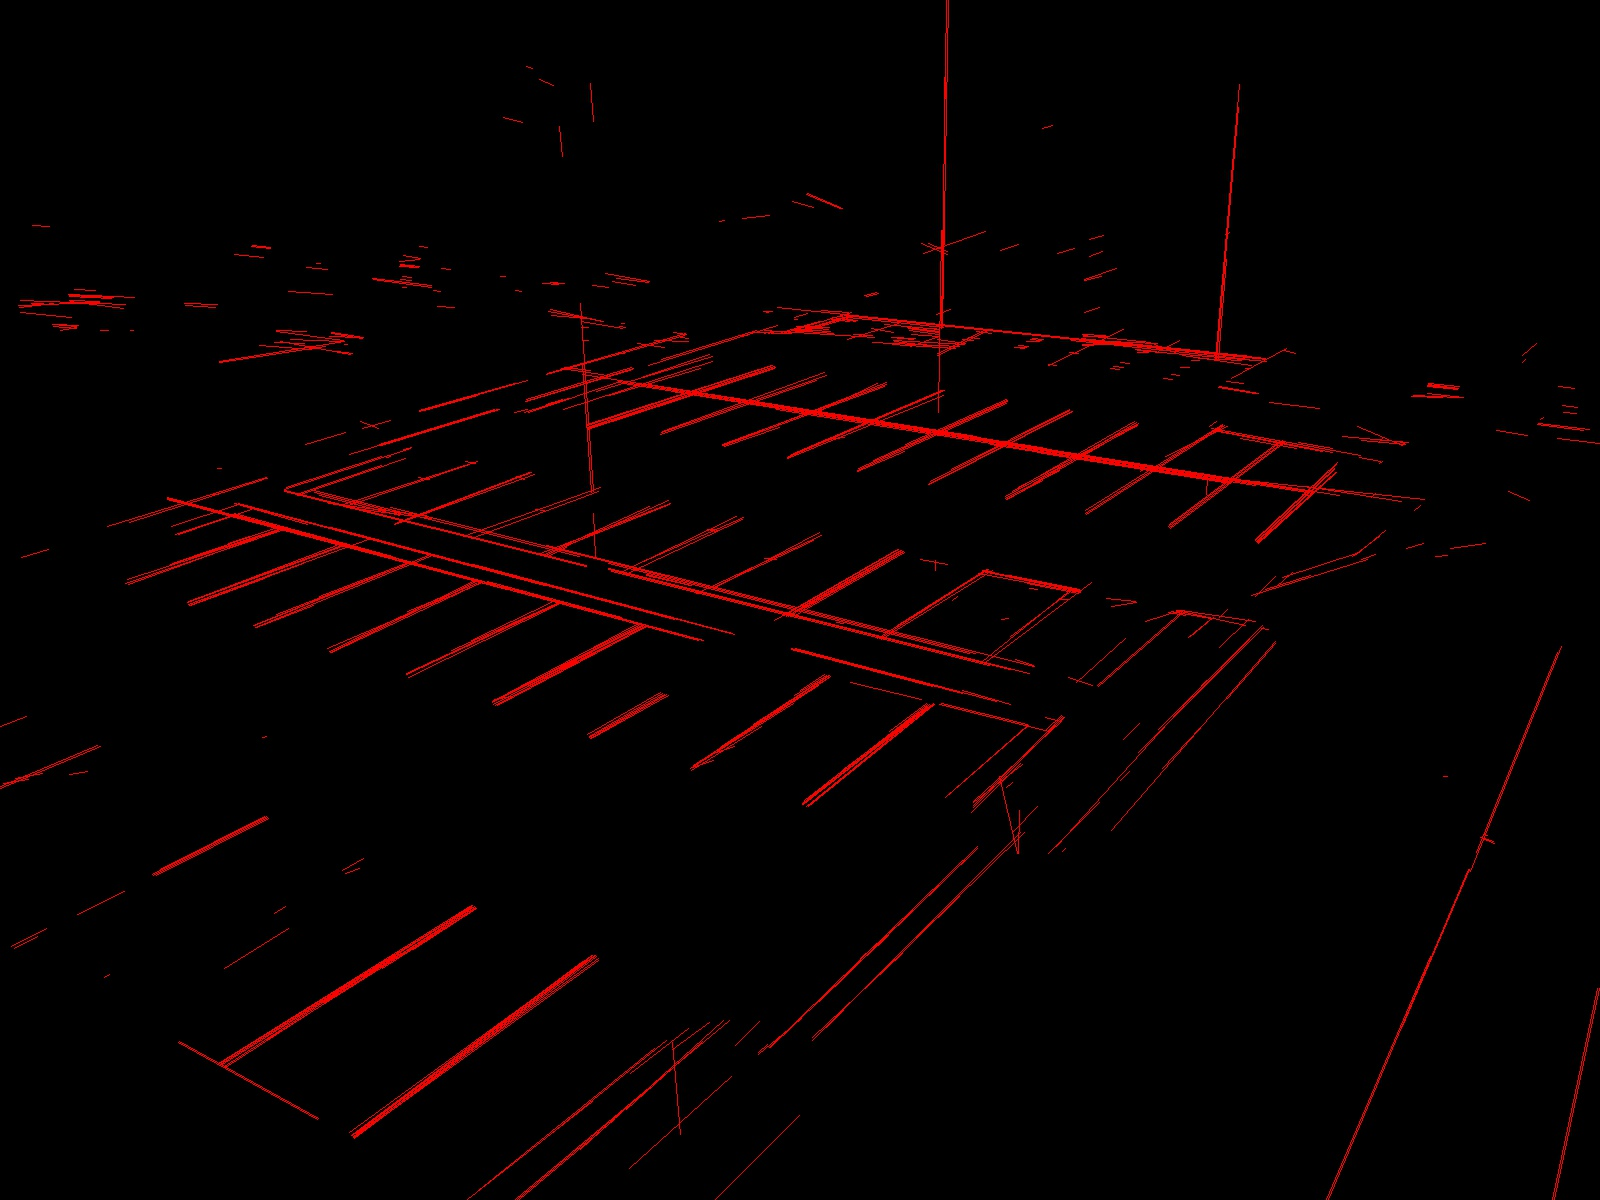
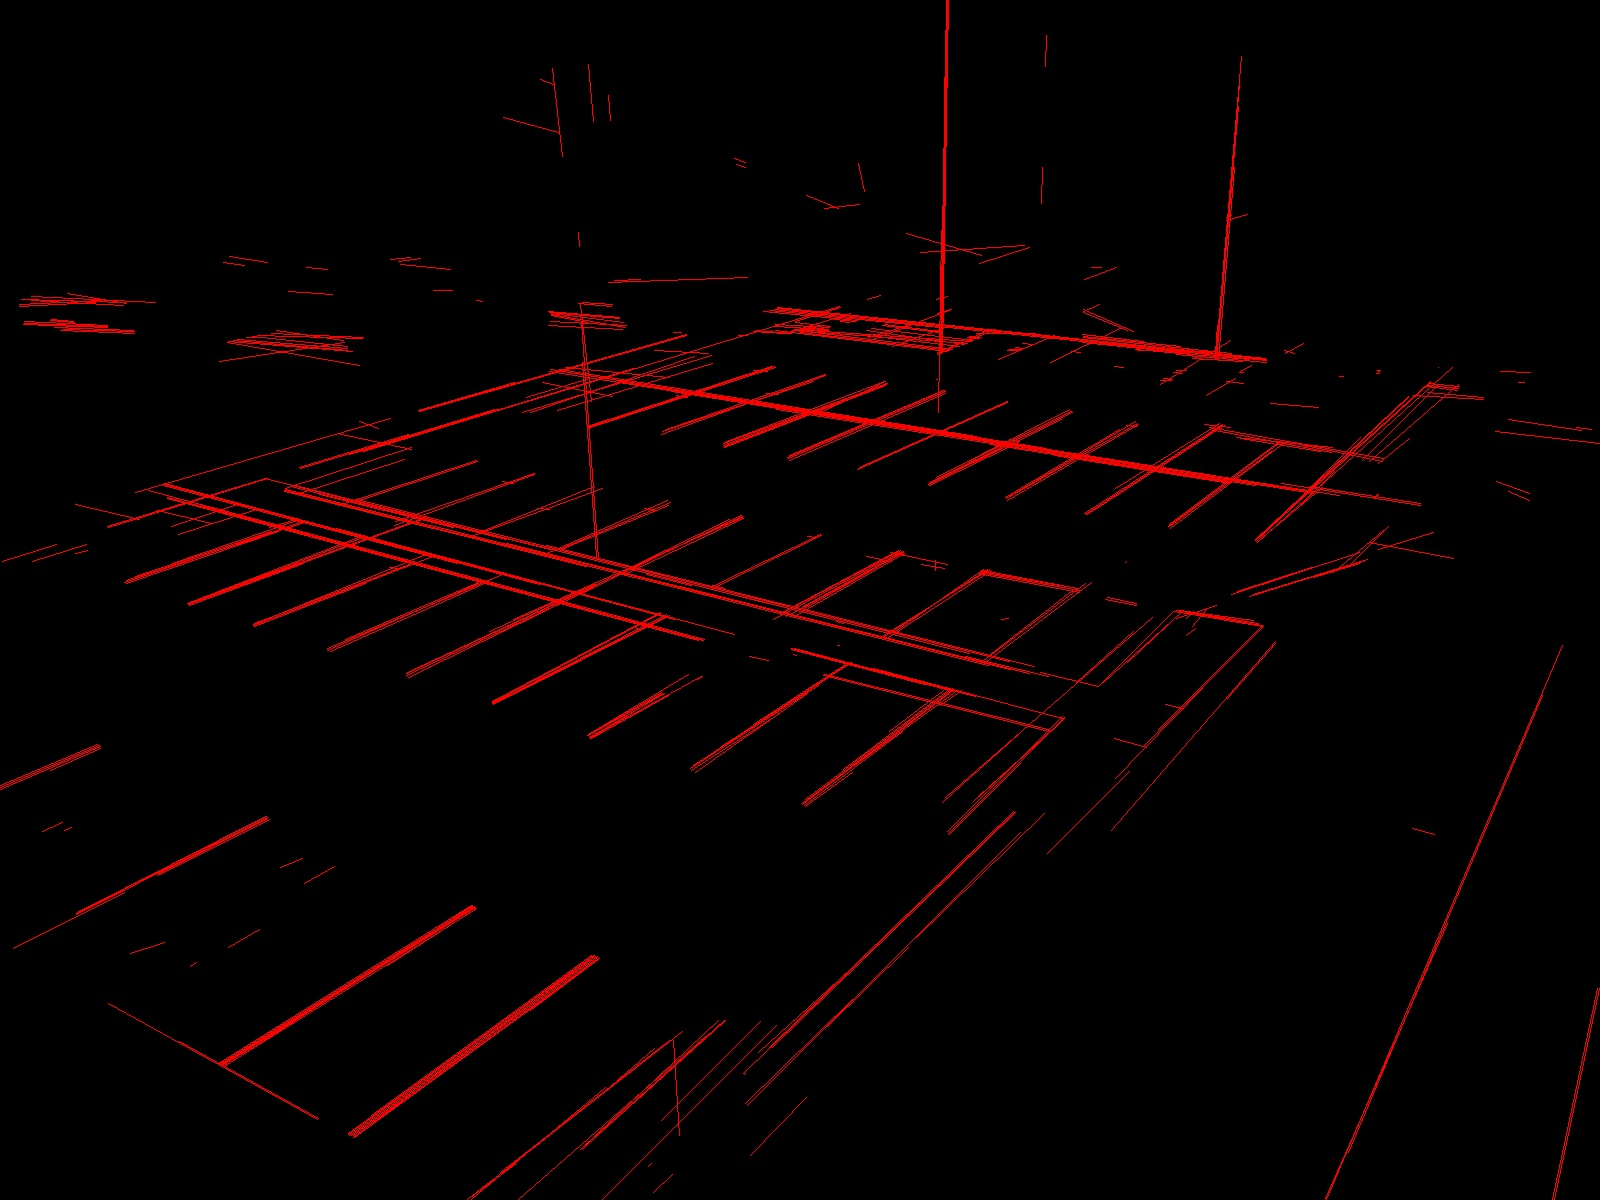
Melhora computacao de similaridade e de hough probabilistico

diff --git a/src/main.cpp b/src/main.cpp
@@ -2,7 +2,6 @@
 
 using namespace cv;
 
-
 // Começa GLCM (matriz de homogeneidades)
 
 #define WINDOW_SIZE 32
@@ -30,11 +29,13 @@ Mat ExtractFeatureMat(Mat featuresMat, int featureNum);
 #define DIST_RES 1
 #define ANGLE_RES M_PI/180.
 #define HOUGH_THRES 300 // Acumulador
-#define MIN_LINE_LEN 3.
-#define MAX_LINE_GAP 15.
+#define HOUGHP_THRES 150 // Acumulador
+#define MIN_LINE_LEN 0
+#define MAX_LINE_GAP 25
 #define TAM_DILATA 7 // Pixels
 #define TAM_ERODE 5 // Pixels
 #define TAM_LINE 3000 // Pixels
+#define ANGLE_THRES 0.25*M_PI/180.
 
 // Termina Hough
 
@@ -48,9 +49,15 @@ Mat ExtractFeatureMat(Mat featuresMat, int featureNum);
 std::vector<Vec2f> AKM( std::vector<Vec2f> input, float threshold, float lineMaxDist = LINE_MAX_DIST, unsigned int minLines = 1 );
 std::vector<Vec4i> AKM( std::vector<Vec4i> input, float threshold, float lineMaxDist = LINE_MAX_DIST, unsigned int minLines = 1 );
 void FilterByAKM( std::vector<Vec2f>& input, float threshold, float lineMaxDist = LINE_MAX_DIST, unsigned int minLines = 1 );
-double linesSimilarity( Vec2f lineA, Vec2f lineB, float maxDistance = 50 );
-double linesSimilarity( Vec4i lineA, Vec4i lineB, float maxDistance = 100 );
 // Termina AKM
+
+// Começa Auxiliary Funcs
+
+double linesSimilarity( Vec2f lineA, Vec2f lineB, float maxDistance = 50 );
+double linesSimilarity( Vec4i segLineA, Vec4i segLineB, float maxDistance = 100 );
+Vec2f ConvertSegLineToLine(Vec4i segLine);
+
+// Termina Auxiliary Funcs
 
 int main(int argc, char** argv){
 	if(argc < 2){
@@ -323,6 +330,7 @@ int main(int argc, char** argv){
 		// imshow("Hough - operado", operado);
 		imwrite("./debug-data/morph-operado.jpg", operado);
 
+		std::vector<Vec2f> linesDirections;
 		{ // Acha as linhas por Hough
 			std::vector<Vec2f> lines;
 			HoughLines(operado, lines, DIST_RES, ANGLE_RES, HOUGH_THRES);
@@ -348,6 +356,8 @@ int main(int argc, char** argv){
 			std::vector<Vec2f> clusters = AKM(lines, LINE_THRES);
 			FilterByAKM(clusters, 0.9, 100000, 2);
 
+			linesDirections = clusters;
+
 			Mat houghWithClusteredLines = gray.clone();
 			cvtColor(operado, houghWithClusteredLines, COLOR_GRAY2BGR);
 			for( unsigned int i = 0; i < clusters.size(); i++ ) {
@@ -368,7 +378,7 @@ int main(int argc, char** argv){
 		printf("Hough computado. Calculando Hough probabilistico...\n");
 		{ // Acha os segmentos de linhas por Hough
 			std::vector<Vec4i> segLines;
-			HoughLinesP(operado, segLines, DIST_RES, ANGLE_RES, HOUGH_THRES/2, MIN_LINE_LEN, MAX_LINE_GAP);
+			HoughLinesP(operado, segLines, DIST_RES, ANGLE_RES, HOUGHP_THRES, MIN_LINE_LEN, MAX_LINE_GAP);
 		
 			Mat houghWithLines = Mat::zeros(gray.rows, gray.cols, gray.type());
 			// Mat houghWithLines = operado.clone();
@@ -379,7 +389,20 @@ int main(int argc, char** argv){
 		
 			// imshow("Hough - Segmento de Linhas", houghWithLines);
 			imwrite("./debug-data/hough-segmentolinhas.jpg", houghWithLines);
-		
+
+			for(unsigned int i = 0; i < segLines.size(); i++) {
+				Vec2f lineI = ConvertSegLineToLine(segLines[i]);
+				unsigned int j;
+				for(j = 0; j < linesDirections.size(); j++) {
+					if(linesSimilarity(linesDirections[j], lineI, 1000000) > 0.95) {
+						break;
+					}
+				}
+				if(j >= linesDirections.size()) {
+					segLines.erase(segLines.begin() + i--);
+				}
+			}
+
 			// Compute e desenha a clusterização adaptativa
 			std::vector<Vec4i> clusters = AKM(segLines, SEGLINE_THRES);
 		
@@ -538,19 +561,26 @@ double linesSimilarity(Vec2f lineA, Vec2f lineB, float maxDistance) {
 	return angleSim * (distSim > 0 ? distSim : 0);
 }
 
-double linesSimilarity( Vec4i lineA, Vec4i lineB, float maxDistance ) {
-	double thetaA = 90.*M_PI/180. - std::atan2( std::abs(lineA[2]-lineA[0]), std::abs(lineA[3]-lineA[1]) );
-	double thetaB = 90.*M_PI/180. - std::atan2( std::abs(lineB[2]-lineB[0]), std::abs(lineB[3]-lineB[1]) );
+double linesSimilarity( Vec4i segLineA, Vec4i segLineB, float maxDistance ) {
 
-	Vec2f midA((lineA[0]+lineA[2])/2, (lineA[1]+lineA[3])/2);
-	Vec2f midB((lineB[0]+lineB[2])/2, (lineB[1]+lineB[3])/2);
+	Vec2f midA((segLineA[0]+segLineA[2])/2, (segLineA[1]+segLineA[3])/2);
+	Vec2f midB((segLineB[0]+segLineB[2])/2, (segLineB[1]+segLineB[3])/2);
 
-	double rhoA = midA[0]*std::sin(thetaA) + midA[1]*std::cos(thetaA);
-	double rhoB = midB[0]*std::sin(thetaB) + midB[1]*std::cos(thetaB);
+	Vec2f lineA = ConvertSegLineToLine(segLineA);
+	Vec2f lineB = ConvertSegLineToLine(segLineB);
 
 	double distSim = 1 - std::sqrt( std::pow( midA[0]-midB[0], 2) + std::pow( midA[1]-midB[1], 2) )/maxDistance;
 
-	return linesSimilarity(Vec2f(rhoA, thetaA), Vec2f(rhoB, thetaB), maxDistance) * (distSim > 0 ? distSim : 0);
+	return linesSimilarity(lineA, lineB, maxDistance) * (distSim > 0 ? distSim : 0);
+}
+
+Vec2f ConvertSegLineToLine(Vec4i segLine) {
+	Point mid((segLine[0]+segLine[2])/2, (segLine[1]+segLine[3])/2);
+
+	float theta = std::atan2( segLine[3]-segLine[1], segLine[2]-segLine[0] ) + 90*M_PI/180;
+	float rho = mid.x*std::cos(theta) + mid.y*std::sin(theta);
+
+	return Vec2f(rho, theta);
 }
 
 // Termina AKM
